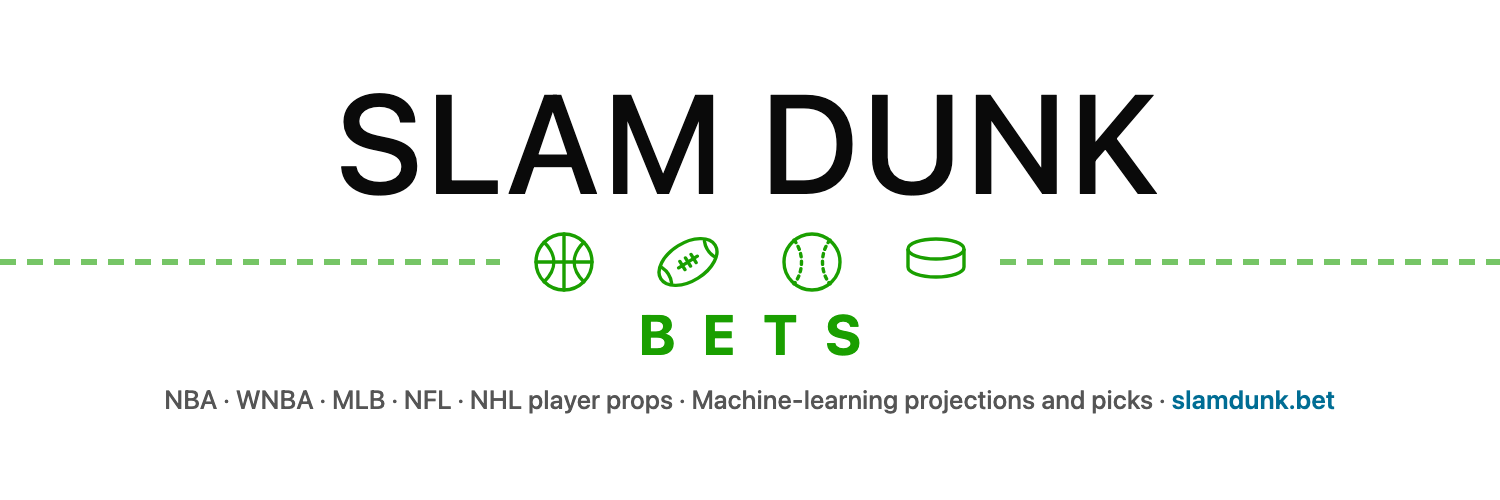
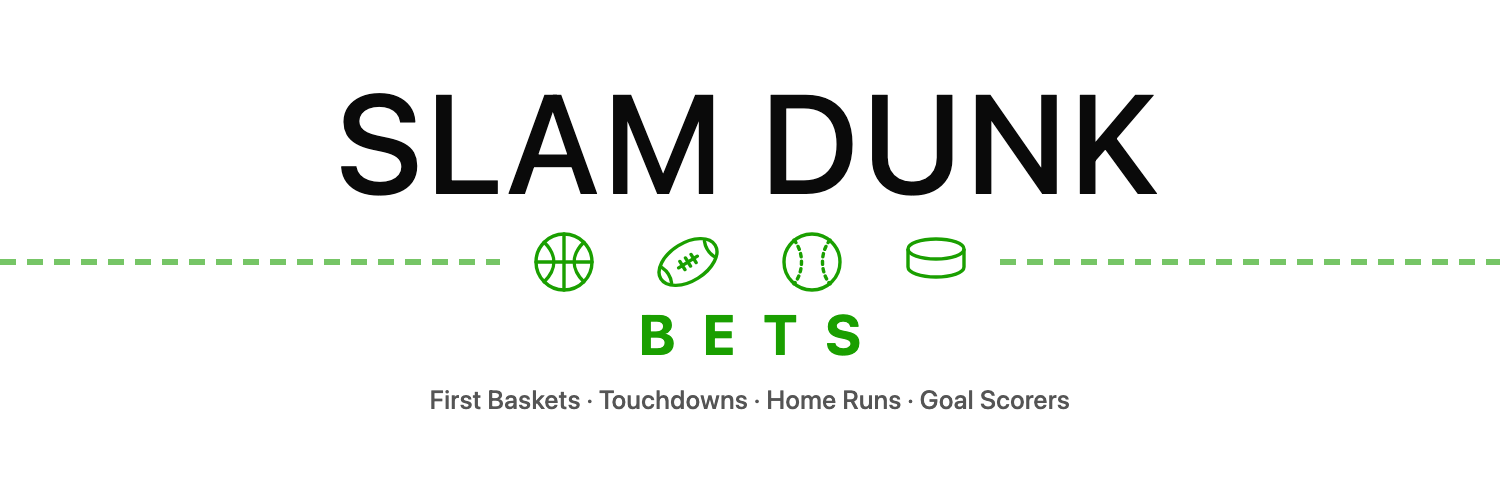
Shorten X header tagline to the four headline markets

Changed region(s): [[0.092, 0.78, 0.8893, 0.84]]

diff --git a/_og/x-header-light.html b/_og/x-header-light.html
@@ -26,5 +26,5 @@
     <svg width="68" height="68" viewBox="-17 -15 34 34"><g fill="none" stroke="#1a9f00" stroke-width="1.7" stroke-linejoin="round"><ellipse cy="-4.5" rx="14" ry="5"></ellipse><path d="M-14 -4.5V4.5A14 5 0 0 0 14 4.5V-4.5"></path></g></svg>
   </div>
   <div class="bets">BETS</div>
-  <div class="tag">NBA · WNBA · MLB · NFL · NHL player props · Machine-learning projections and picks · <span class="url">slamdunk.bet</span></div>
+  <div class="tag">First Baskets · Touchdowns · Home Runs · Goal Scorers</div>
 </div></body></html>

diff --git a/_og/x-header.html b/_og/x-header.html
@@ -26,5 +26,5 @@
     <svg width="68" height="68" viewBox="-17 -15 34 34"><g fill="none" stroke="#39ff14" stroke-width="1.7" stroke-linejoin="round"><ellipse cy="-4.5" rx="14" ry="5"></ellipse><path d="M-14 -4.5V4.5A14 5 0 0 0 14 4.5V-4.5"></path></g></svg>
   </div>
   <div class="bets">BETS</div>
-  <div class="tag">NBA · WNBA · MLB · NFL · NHL player props · Machine-learning projections and picks · <span class="url">slamdunk.bet</span></div>
+  <div class="tag">First Baskets · Touchdowns · Home Runs · Goal Scorers</div>
 </div></body></html>
